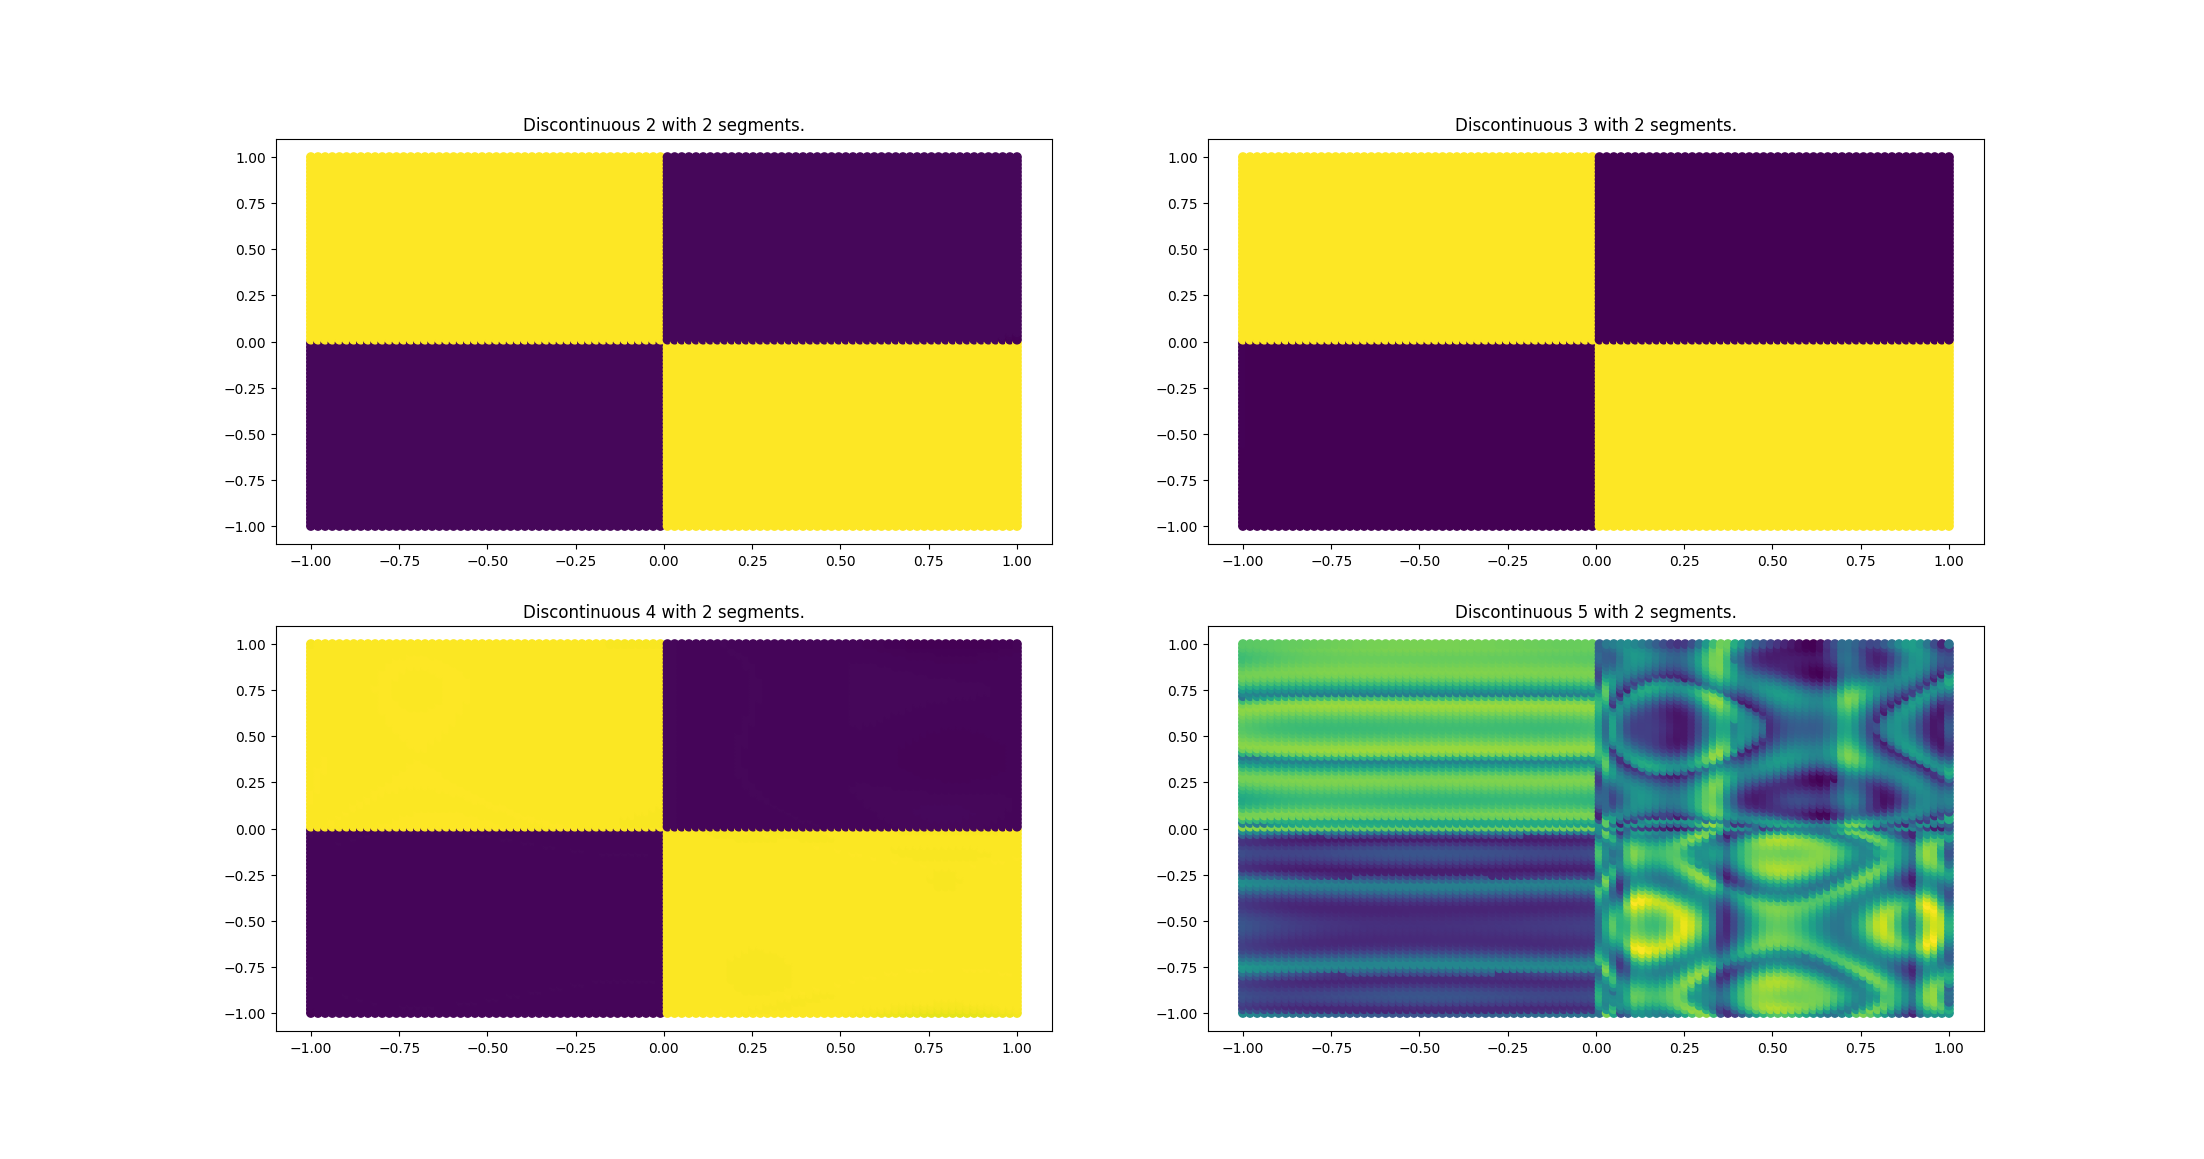
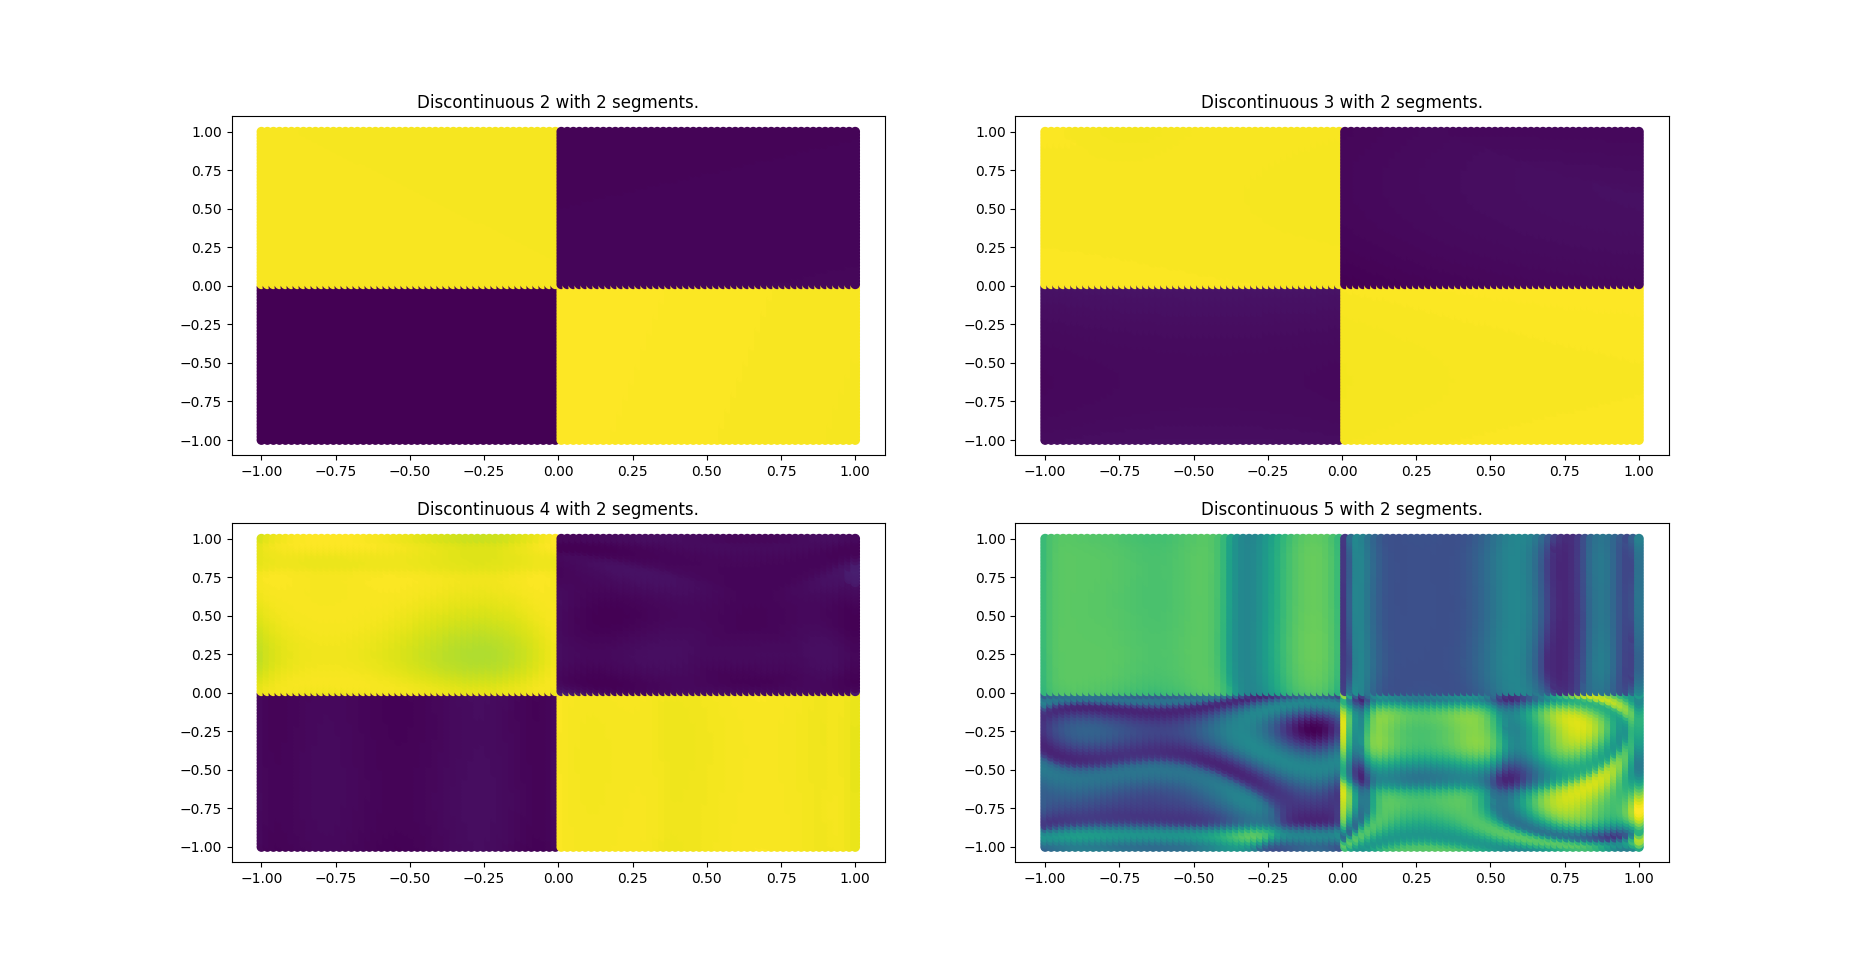
Update xor example add sophia

diff --git a/examples/xor.py b/examples/xor.py
@@ -3,6 +3,7 @@ This example is meant to demonstrate how you can map complex
 functions using a single input and single output with polynomial
 synaptic weights
 """
+
 import math
 import os
 
@@ -15,11 +16,14 @@ from torch.utils.data import DataLoader, Dataset, random_split
 from torchvision import transforms
 from torchvision.datasets import MNIST
 from lion_pytorch import Lion
+import hydra
+from omegaconf import DictConfig, OmegaConf
 
 
 import high_order_layers_torch.PolynomialLayers as poly
 from high_order_layers_torch.layers import *
 from high_order_layers_torch.PolynomialLayers import *
+from Sophia import SophiaG
 
 elements = 100
 a = torch.linspace(-1, 1, elements)
@@ -51,12 +55,25 @@ class XorDataset(Dataset):
 
 
 class NDFunctionApproximation(LightningModule):
-    def __init__(self, n, segments=2, layer_type="continuous", linear_part=1.0):
+    def __init__(
+        self,
+        n,
+        segments=2,
+        layer_type="continuous",
+        linear_part: float = 1.0,
+        optimizer: str = "sophia",
+        lr: float = 0.01,
+        batch_size: int = 32,
+    ):
         """
         Simple network consisting of 2 input and 1 output
         and no hidden layers.
         """
         super().__init__()
+
+        self.optimizer = optimizer
+        self.lr = lr
+        self.batch_size = batch_size
 
         self.layer1 = high_order_fc_layers(
             layer_type=layer_type,
@@ -65,7 +82,7 @@ class NDFunctionApproximation(LightningModule):
             out_features=2,
             segments=segments,
             alpha=linear_part,
-            intialization="constant_random"
+            intialization="constant_random",
         )
         self.layer2 = high_order_fc_layers(
             layer_type=layer_type,
@@ -74,7 +91,7 @@ class NDFunctionApproximation(LightningModule):
             out_features=1,
             segments=segments,
             alpha=linear_part,
-            initialization="constant_random"            
+            initialization="constant_random",
         )
 
     def forward(self, x):
@@ -87,10 +104,17 @@ class NDFunctionApproximation(LightningModule):
         return {"loss": F.mse_loss(y_hat, y)}
 
     def train_dataloader(self):
-        return DataLoader(XorDataset(), batch_size=32)
+        return DataLoader(XorDataset(), batch_size=self.batch_size)
 
     def configure_optimizers(self):
-        return Lion(self.parameters(), lr=0.01)
+        if self.optimizer == "lion":
+            return Lion(self.parameters(), lr=self.lr)
+        elif self.optimizer == "sophia":
+            return SophiaG(self.parameters(), lr=self.lr, rho=0.035)
+        elif self.optimizer == "adam":
+            return torch.optim.Adam(self.parameters(), lr=self.lr)
+        else :
+            raise ValueError(f"optimizer must be lion, sophia or adam, got {self.optimizer}")
 
 
 model_set_p = [
@@ -108,7 +132,15 @@ model_set_d = [
 
 
 def plot_approximation(
-    model_set, segments, epochs, fig_start=0, linear_part=0.0, plot=True
+    model_set,
+    segments,
+    epochs,
+    fig_start=0,
+    linear_part=0.0,
+    plot=True,
+    optimizer="sophia",
+    lr=0.01,
+    batch_size=32,
 ):
     pred_set = []
     for i in range(0, len(model_set)):
@@ -119,6 +151,9 @@ def plot_approximation(
             segments=segments,
             layer_type=model_set[i]["layer"],
             linear_part=linear_part,
+            optimizer=optimizer,
+            lr=lr,
+            batch_size=batch_size
         )
         trainer.fit(model)
         predictions = model(xTest.view(xTest.size(0), -1))
@@ -130,14 +165,35 @@ def plot_approximation(
                 xTest.data.numpy()[:, 1],
                 c=predictions.flatten().data.numpy(),
             )
-            if model_set[i]['layer']!="polynomial":
+            if model_set[i]["layer"] != "polynomial":
                 plt.title(f"{model_set[i]['name']} with {segments} segments.")
-            else :
+            else:
                 plt.title(f"{model_set[i]['name']}.")
 
     return pred_set
 
 
-if __name__ == "__main__":
-    plot_approximation(model_set_d, segments=2, epochs=40, linear_part=0, plot=True)
+@hydra.main(config_path="../config", config_name="xor")
+def run(cfg: DictConfig):
+
+    plot_style = {
+        "continuous": model_set_c,
+        "discontinuous": model_set_d,
+        "polynomial": model_set_p,
+    }
+
+    plot_approximation(
+        plot_style[cfg.layer_type],
+        segments=cfg.segments,
+        epochs=cfg.epochs,
+        linear_part=0,
+        plot=True,
+        optimizer=cfg.optimizer,
+        lr=cfg.lr,
+        batch_size=cfg.batch_size
+    )
     plt.show()
+
+
+if __name__ == "__main__":
+    run()

diff --git a/high_order_layers_torch/modules.py b/high_order_layers_torch/modules.py
@@ -210,6 +210,9 @@ class ClassificationNet(ClassificationMixin, PredictionNetMixin, LightningModule
         self.model = select_network(cfg)
 
         self.loss = torch.nn.CrossEntropyLoss()
+
+        # TODO: This Accuracy may not be doing what I want especially if it's called
+        # for both validation and test. Investigate!
         self.accuracy = Accuracy(top_k=1,task="multiclass", num_classes=cfg.data.classes)
 
 
